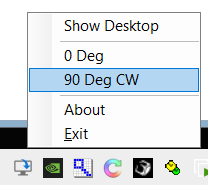
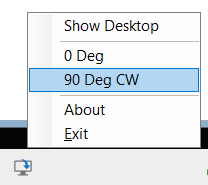
fixed screenshot in readme and added build action

diff --git a/README.md b/README.md
@@ -1,15 +1,15 @@
 # QuickRotate
+
 QuickRotate is a small utility that shows an icon in the taskbar notification area (system tray) of
 Windows.
 
-todo screenshot
+![Screenshot of QuickRotate](Screenshot.png "Screenshot of QuickRotate")
 
 It was created for portable devices with a touch screen that have an unreliable
 rotation / orientation sensor which can be quite annoying. To activate it, just touch
 (left-click) the icon and the choose the rotation angle.
 
 QuickRotate does not require any installation / setup - just run the .exe
- 
+
 This project also provides the class library *RotateDisplayLib* which can be used in
 PowerShell scripts or in your own .Net application.
-
